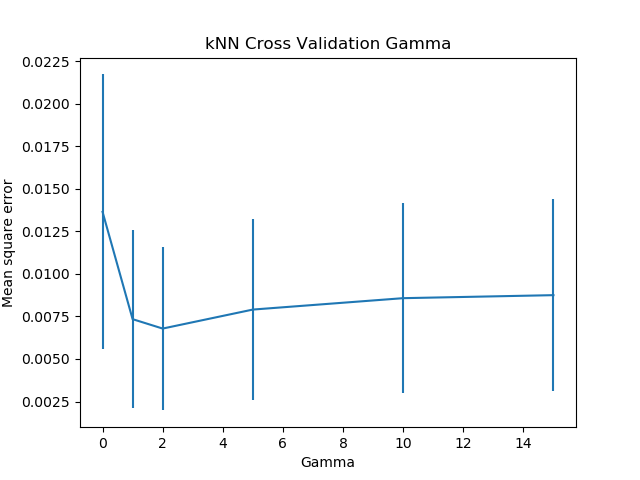
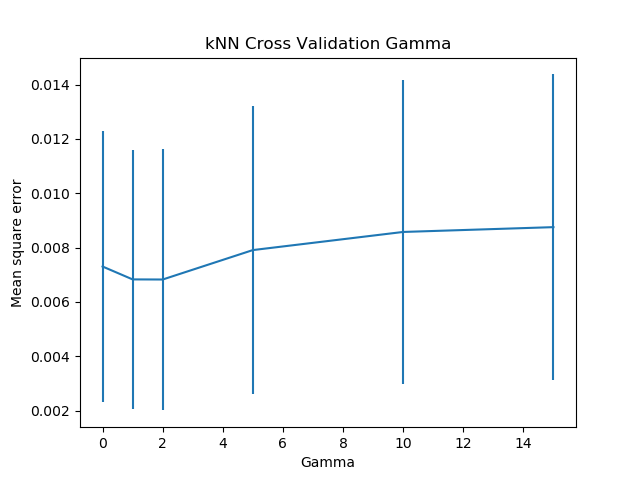
Fixed kNN a bit.

diff --git a/model_training.py b/model_training.py
@@ -1,6 +1,7 @@
 import matplotlib.pyplot as plt
 import numpy as np
 import pandas as pd
+import math
 from sklearn.neighbors import KNeighborsRegressor
 from sklearn.linear_model import LinearRegression
 from sklearn.model_selection import KFold, train_test_split
@@ -69,9 +70,7 @@ def crossValidationkNN(x, y):
     for g in gammaVals:
         tmpMeanErrors = []
         for train, test in kf.split(x):
-            model = KNeighborsRegressor(n_neighbors=len(x[train]), weights=gaussian_kernel).fit(
-                x[train], y[train])
-            
+            model = KNeighborsRegressor(n_neighbors=int(math.sqrt(len(x[train]))), weights=gaussian_kernel).fit(x[train], y[train])
             ypred = model.predict(x[test])
 
             mask = np.isnan(ypred)
